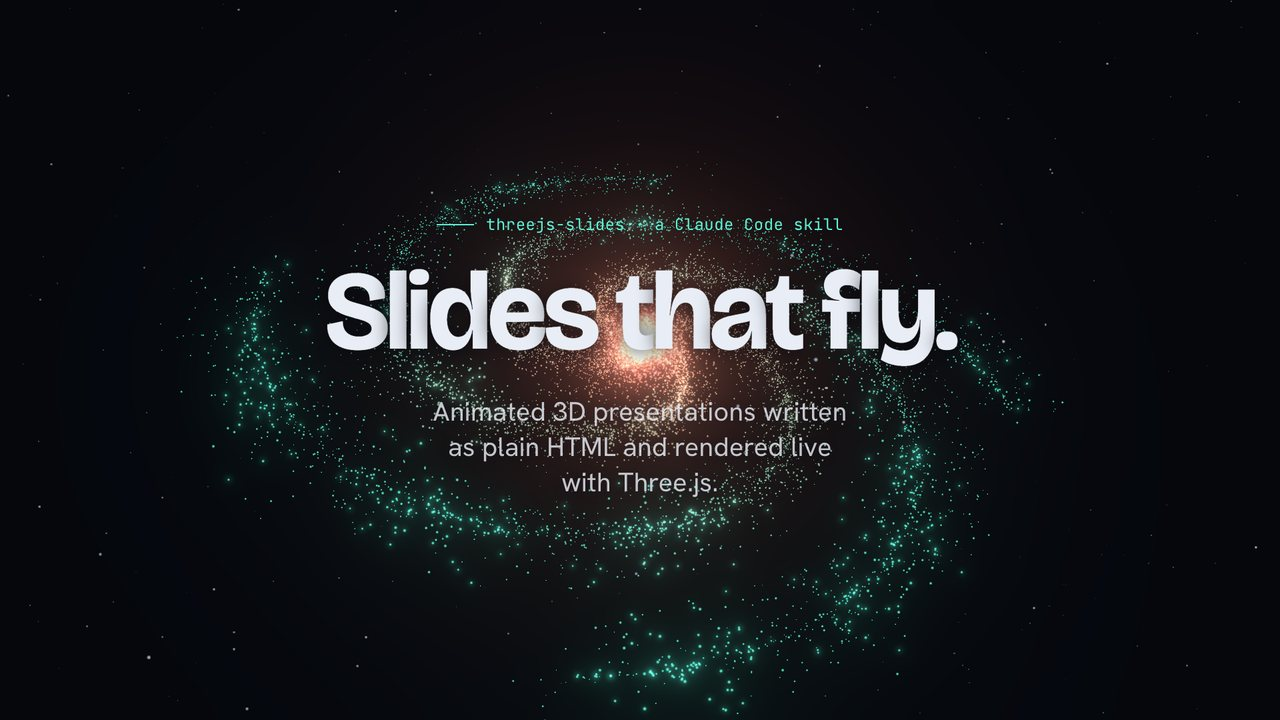
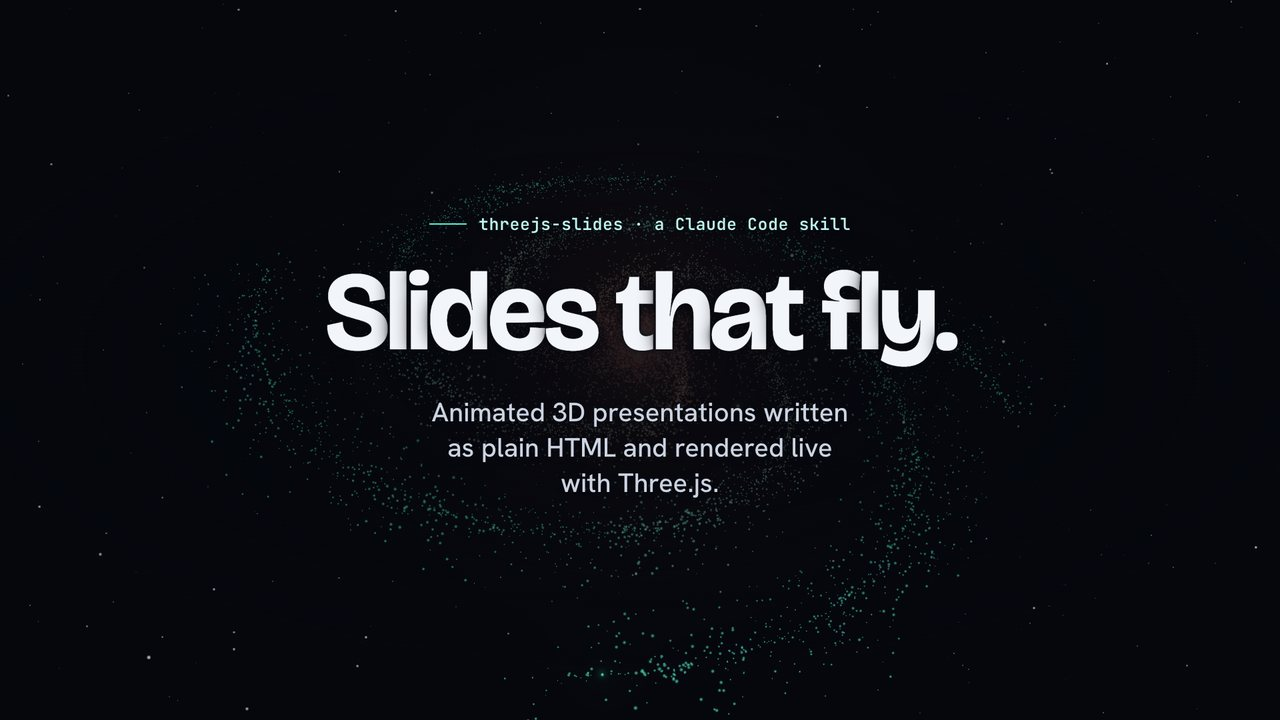
Make slide text readable over 3D scenes
No text colour contrasts with both the dark background and bright
particles (white on the aqua galaxy is 1.2:1), so text now always gets
a dark patch behind it:
- glyph halo + per-layout gradient scrim (--scrim, .no-scrim)
- 3D dimmed when it sits behind text: 0.42 on title/center/statement/
  section/cards, 0.7 on top/bottom/stats, full on split (data-dim)
- solid text roles: --fg, new --text-2, brighter --muted (>= 6.8:1);
  kicker is a pale accent tint instead of pure accent

Changed region(s): [[0.25, 0.2444, 0.7812, 1.0], [0.1562, 0.3667, 0.3125, 0.6417], [0.7812, 0.55, 0.8125, 0.5806]]

diff --git a/examples/demo/lib/threejs-slides.css b/examples/demo/lib/threejs-slides.css
@@ -9,7 +9,7 @@
 
 :root,
 [data-theme="nebula"] {
-  --bg: #05070d; --fg: #e9edf5; --muted: #8b95a9;
+  --bg: #05070d; --fg: #f2f5fa; --text-2: #ccd4e2; --muted: #aab3c5;
   --accent: #5cf2d6; --accent-2: #ff7a59; --accent-3: #7aa2ff;
   --panel: rgba(14, 20, 34, 0.55); --line: rgba(233, 237, 245, 0.14);
   --font-display: "Bricolage Grotesque", "Avenir Next", sans-serif;
@@ -18,7 +18,7 @@
   --display-weight: 700; --display-tracking: -0.035em;
 }
 [data-theme="ember"] {
-  --bg: #0f0a08; --fg: #f7ede3; --muted: #a8958a;
+  --bg: #0f0a08; --fg: #fbf3ea; --text-2: #eadccd; --muted: #c4b2a5;
   --accent: #ff8a3d; --accent-2: #ffd166; --accent-3: #e6394a;
   --panel: rgba(36, 20, 14, 0.55); --line: rgba(247, 237, 227, 0.14);
   --font-display: "Fraunces", Georgia, serif;
@@ -27,7 +27,7 @@
   --display-weight: 600; --display-tracking: -0.025em;
 }
 [data-theme="aurora"] {
-  --bg: #03110e; --fg: #e4fff5; --muted: #84a99c;
+  --bg: #03110e; --fg: #effff8; --text-2: #c3ebdc; --muted: #a3c9bb;
   --accent: #3dffa8; --accent-2: #2bd9ff; --accent-3: #f7e86b;
   --panel: rgba(8, 34, 28, 0.55); --line: rgba(228, 255, 245, 0.14);
   --font-display: "Familjen Grotesk", "Avenir Next", sans-serif;
@@ -36,7 +36,7 @@
   --display-weight: 700; --display-tracking: -0.03em;
 }
 [data-theme="paper"] {
-  --bg: #f3eee4; --fg: #1c1a16; --muted: #6f685c;
+  --bg: #f3eee4; --fg: #15130f; --text-2: #34302a; --muted: #57514a;
   --accent: #2046d8; --accent-2: #e0442b; --accent-3: #0f8a6a;
   --panel: rgba(255, 252, 246, 0.72); --line: rgba(28, 26, 22, 0.16);
   --font-display: "Newsreader", Georgia, serif;
@@ -45,7 +45,7 @@
   --display-weight: 500; --display-tracking: -0.02em;
 }
 [data-theme="mono"] {
-  --bg: #0a0a0a; --fg: #f4f4f1; --muted: #8d8d88;
+  --bg: #0a0a0a; --fg: #f7f7f4; --text-2: #d6d6d2; --muted: #aeaea9;
   --accent: #f4f4f1; --accent-2: #ff4b33; --accent-3: #9a9a95;
   --panel: rgba(24, 24, 24, 0.6); --line: rgba(244, 244, 241, 0.16);
   --font-display: "Archivo", "Helvetica Neue", sans-serif;
@@ -84,11 +84,11 @@ html:not(.ts-ready) .deck > section { transition: none; }
 .slide h1 { font-size: 148px; }
 .slide h2 { font-size: 96px; }
 .slide h3 { font-size: 46px; line-height: 1.08; letter-spacing: -0.015em; }
-.slide p, .slide li { font-size: 32px; line-height: 1.42; margin: 0; text-wrap: pretty; }
-.slide .lede { font-size: 40px; line-height: 1.32; color: color-mix(in srgb, var(--fg) 82%, transparent); max-width: 30ch; }
+.slide p, .slide li { font-size: 32px; line-height: 1.42; margin: 0; text-wrap: pretty; font-weight: 450; }
+.slide .lede { font-size: 40px; line-height: 1.32; color: var(--text-2); font-weight: 500; max-width: 30ch; }
 .slide .small { font-size: 24px; color: var(--muted); }
-.slide .kicker { font-family: var(--font-mono); font-size: 24px; color: var(--accent); letter-spacing: 0.02em; display: inline-flex; align-items: center; gap: 18px; margin-bottom: 34px; }
-.slide .kicker::before { content: ""; width: 56px; height: 2px; background: currentColor; }
+.slide .kicker { font-family: var(--font-mono); font-size: 25px; font-weight: 600; color: color-mix(in srgb, var(--accent) 35%, var(--fg)); letter-spacing: 0.02em; display: inline-flex; align-items: center; gap: 18px; margin-bottom: 34px; }
+.slide .kicker::before { content: ""; width: 56px; height: 2px; background: var(--accent); }
 .slide .accent { color: var(--accent); }
 .slide .muted { color: var(--muted); }
 .slide strong { font-weight: 700; color: var(--fg); }
@@ -115,7 +115,24 @@ html:not(.ts-ready) .deck > section { transition: none; }
 .layout-split-reverse > * { width: 820px; }
 .layout-split .lede, .layout-split-reverse .lede { margin-top: 34px; }
 .layout-split pre.code, .layout-split-reverse pre.code { margin-top: 44px; max-width: 820px; font-size: 24px; }
-body.ts-body .slide { text-shadow: 0 2px 28px color-mix(in srgb, var(--bg) 70%, transparent); }
+/* === LEGIBILITY ===========================================================
+   No text colour can contrast with both a dark background and bright particles,
+   so every slide guarantees a dark (or light, on paper) patch behind its text:
+   1. a halo hugging each glyph, 2. a soft gradient scrim behind the text area.
+   Tune with --scrim on a slide (e.g. style="--scrim: 50%") or remove with .no-scrim. */
+.slide { --halo: color-mix(in srgb, var(--bg) 92%, transparent); --scrim: 78%; isolation: isolate; }
+body.ts-body .slide { text-shadow: 0 0 2px var(--halo), 0 0 8px var(--halo), 0 2px 26px var(--halo); }
+.slide pre.code, .slide .card, .slide .chip { text-shadow: none; }
+.slide::before { content: ""; position: absolute; inset: 0; z-index: -1; pointer-events: none;
+  --s: color-mix(in srgb, var(--bg) var(--scrim), transparent);
+  background: radial-gradient(ellipse 58% 46% at 50% 50%, var(--s) 0%, transparent 100%); }
+.layout-split::before { background: linear-gradient(90deg, var(--s) 0%, var(--s) 30%, transparent 58%); }
+.layout-split-reverse::before { background: linear-gradient(270deg, var(--s) 0%, var(--s) 30%, transparent 58%); }
+.layout-bottom::before { background: linear-gradient(0deg, var(--s) 0%, var(--s) 18%, transparent 48%); }
+.layout-top::before, .layout-stats::before, .layout-cards::before { background: linear-gradient(180deg, var(--s) 0%, var(--s) 28%, transparent 78%); }
+.layout-statement::before { background: radial-gradient(ellipse 62% 55% at 34% 50%, var(--s) 0%, transparent 100%); }
+.slide.no-scrim::before { display: none; }
+.layout-title, .layout-center, .layout-statement, .layout-section { --scrim: 86%; }
 
 .layout-bottom { display: flex; flex-direction: column; justify-content: flex-end; }
 .layout-bottom h2 { font-size: 84px; }
@@ -132,14 +149,14 @@ body.ts-body .slide { text-shadow: 0 2px 28px color-mix(in srgb, var(--bg) 70%, 
 .layout-stats { display: flex; flex-direction: column; justify-content: center; }
 .stats { display: grid; grid-template-columns: repeat(auto-fit, minmax(0, 1fr)); gap: 56px; margin-top: 80px; }
 .stat .value { font-family: var(--font-display); font-weight: var(--display-weight); letter-spacing: var(--display-tracking); font-size: 136px; line-height: 1; color: var(--fg); font-variant-numeric: tabular-nums; }
-.stat .label { margin-top: 18px; font-size: 28px; color: var(--muted); max-width: 16ch; }
+.stat .label { margin-top: 18px; font-size: 28px; color: var(--text-2); font-weight: 500; max-width: 16ch; }
 .stat { border-top: 2px solid var(--line); padding-top: 34px; }
 
 .layout-cards { display: flex; flex-direction: column; justify-content: center; }
 .cards { display: grid; grid-template-columns: repeat(auto-fit, minmax(0, 1fr)); gap: 36px; margin-top: 70px; }
 .card { background: var(--panel); border: 1px solid var(--line); border-radius: 26px; padding: 44px 42px; backdrop-filter: blur(16px); -webkit-backdrop-filter: blur(16px); }
 .card h3 { font-size: 40px; margin-bottom: 18px; }
-.card p { font-size: 27px; color: color-mix(in srgb, var(--fg) 78%, transparent); }
+.card p { font-size: 27px; color: var(--text-2); }
 .card .icon { font-family: var(--font-mono); font-size: 24px; color: var(--accent); margin-bottom: 30px; display: block; }
 
 .chips { display: flex; flex-wrap: wrap; gap: 16px; margin-top: 40px; }

diff --git a/skills/threejs-slides/assets/runtime/threejs-slides.css b/skills/threejs-slides/assets/runtime/threejs-slides.css
@@ -9,7 +9,7 @@
 
 :root,
 [data-theme="nebula"] {
-  --bg: #05070d; --fg: #e9edf5; --muted: #8b95a9;
+  --bg: #05070d; --fg: #f2f5fa; --text-2: #ccd4e2; --muted: #aab3c5;
   --accent: #5cf2d6; --accent-2: #ff7a59; --accent-3: #7aa2ff;
   --panel: rgba(14, 20, 34, 0.55); --line: rgba(233, 237, 245, 0.14);
   --font-display: "Bricolage Grotesque", "Avenir Next", sans-serif;
@@ -18,7 +18,7 @@
   --display-weight: 700; --display-tracking: -0.035em;
 }
 [data-theme="ember"] {
-  --bg: #0f0a08; --fg: #f7ede3; --muted: #a8958a;
+  --bg: #0f0a08; --fg: #fbf3ea; --text-2: #eadccd; --muted: #c4b2a5;
   --accent: #ff8a3d; --accent-2: #ffd166; --accent-3: #e6394a;
   --panel: rgba(36, 20, 14, 0.55); --line: rgba(247, 237, 227, 0.14);
   --font-display: "Fraunces", Georgia, serif;
@@ -27,7 +27,7 @@
   --display-weight: 600; --display-tracking: -0.025em;
 }
 [data-theme="aurora"] {
-  --bg: #03110e; --fg: #e4fff5; --muted: #84a99c;
+  --bg: #03110e; --fg: #effff8; --text-2: #c3ebdc; --muted: #a3c9bb;
   --accent: #3dffa8; --accent-2: #2bd9ff; --accent-3: #f7e86b;
   --panel: rgba(8, 34, 28, 0.55); --line: rgba(228, 255, 245, 0.14);
   --font-display: "Familjen Grotesk", "Avenir Next", sans-serif;
@@ -36,7 +36,7 @@
   --display-weight: 700; --display-tracking: -0.03em;
 }
 [data-theme="paper"] {
-  --bg: #f3eee4; --fg: #1c1a16; --muted: #6f685c;
+  --bg: #f3eee4; --fg: #15130f; --text-2: #34302a; --muted: #57514a;
   --accent: #2046d8; --accent-2: #e0442b; --accent-3: #0f8a6a;
   --panel: rgba(255, 252, 246, 0.72); --line: rgba(28, 26, 22, 0.16);
   --font-display: "Newsreader", Georgia, serif;
@@ -45,7 +45,7 @@
   --display-weight: 500; --display-tracking: -0.02em;
 }
 [data-theme="mono"] {
-  --bg: #0a0a0a; --fg: #f4f4f1; --muted: #8d8d88;
+  --bg: #0a0a0a; --fg: #f7f7f4; --text-2: #d6d6d2; --muted: #aeaea9;
   --accent: #f4f4f1; --accent-2: #ff4b33; --accent-3: #9a9a95;
   --panel: rgba(24, 24, 24, 0.6); --line: rgba(244, 244, 241, 0.16);
   --font-display: "Archivo", "Helvetica Neue", sans-serif;
@@ -84,11 +84,11 @@ html:not(.ts-ready) .deck > section { transition: none; }
 .slide h1 { font-size: 148px; }
 .slide h2 { font-size: 96px; }
 .slide h3 { font-size: 46px; line-height: 1.08; letter-spacing: -0.015em; }
-.slide p, .slide li { font-size: 32px; line-height: 1.42; margin: 0; text-wrap: pretty; }
-.slide .lede { font-size: 40px; line-height: 1.32; color: color-mix(in srgb, var(--fg) 82%, transparent); max-width: 30ch; }
+.slide p, .slide li { font-size: 32px; line-height: 1.42; margin: 0; text-wrap: pretty; font-weight: 450; }
+.slide .lede { font-size: 40px; line-height: 1.32; color: var(--text-2); font-weight: 500; max-width: 30ch; }
 .slide .small { font-size: 24px; color: var(--muted); }
-.slide .kicker { font-family: var(--font-mono); font-size: 24px; color: var(--accent); letter-spacing: 0.02em; display: inline-flex; align-items: center; gap: 18px; margin-bottom: 34px; }
-.slide .kicker::before { content: ""; width: 56px; height: 2px; background: currentColor; }
+.slide .kicker { font-family: var(--font-mono); font-size: 25px; font-weight: 600; color: color-mix(in srgb, var(--accent) 35%, var(--fg)); letter-spacing: 0.02em; display: inline-flex; align-items: center; gap: 18px; margin-bottom: 34px; }
+.slide .kicker::before { content: ""; width: 56px; height: 2px; background: var(--accent); }
 .slide .accent { color: var(--accent); }
 .slide .muted { color: var(--muted); }
 .slide strong { font-weight: 700; color: var(--fg); }
@@ -115,7 +115,24 @@ html:not(.ts-ready) .deck > section { transition: none; }
 .layout-split-reverse > * { width: 820px; }
 .layout-split .lede, .layout-split-reverse .lede { margin-top: 34px; }
 .layout-split pre.code, .layout-split-reverse pre.code { margin-top: 44px; max-width: 820px; font-size: 24px; }
-body.ts-body .slide { text-shadow: 0 2px 28px color-mix(in srgb, var(--bg) 70%, transparent); }
+/* === LEGIBILITY ===========================================================
+   No text colour can contrast with both a dark background and bright particles,
+   so every slide guarantees a dark (or light, on paper) patch behind its text:
+   1. a halo hugging each glyph, 2. a soft gradient scrim behind the text area.
+   Tune with --scrim on a slide (e.g. style="--scrim: 50%") or remove with .no-scrim. */
+.slide { --halo: color-mix(in srgb, var(--bg) 92%, transparent); --scrim: 78%; isolation: isolate; }
+body.ts-body .slide { text-shadow: 0 0 2px var(--halo), 0 0 8px var(--halo), 0 2px 26px var(--halo); }
+.slide pre.code, .slide .card, .slide .chip { text-shadow: none; }
+.slide::before { content: ""; position: absolute; inset: 0; z-index: -1; pointer-events: none;
+  --s: color-mix(in srgb, var(--bg) var(--scrim), transparent);
+  background: radial-gradient(ellipse 58% 46% at 50% 50%, var(--s) 0%, transparent 100%); }
+.layout-split::before { background: linear-gradient(90deg, var(--s) 0%, var(--s) 30%, transparent 58%); }
+.layout-split-reverse::before { background: linear-gradient(270deg, var(--s) 0%, var(--s) 30%, transparent 58%); }
+.layout-bottom::before { background: linear-gradient(0deg, var(--s) 0%, var(--s) 18%, transparent 48%); }
+.layout-top::before, .layout-stats::before, .layout-cards::before { background: linear-gradient(180deg, var(--s) 0%, var(--s) 28%, transparent 78%); }
+.layout-statement::before { background: radial-gradient(ellipse 62% 55% at 34% 50%, var(--s) 0%, transparent 100%); }
+.slide.no-scrim::before { display: none; }
+.layout-title, .layout-center, .layout-statement, .layout-section { --scrim: 86%; }
 
 .layout-bottom { display: flex; flex-direction: column; justify-content: flex-end; }
 .layout-bottom h2 { font-size: 84px; }
@@ -132,14 +149,14 @@ body.ts-body .slide { text-shadow: 0 2px 28px color-mix(in srgb, var(--bg) 70%, 
 .layout-stats { display: flex; flex-direction: column; justify-content: center; }
 .stats { display: grid; grid-template-columns: repeat(auto-fit, minmax(0, 1fr)); gap: 56px; margin-top: 80px; }
 .stat .value { font-family: var(--font-display); font-weight: var(--display-weight); letter-spacing: var(--display-tracking); font-size: 136px; line-height: 1; color: var(--fg); font-variant-numeric: tabular-nums; }
-.stat .label { margin-top: 18px; font-size: 28px; color: var(--muted); max-width: 16ch; }
+.stat .label { margin-top: 18px; font-size: 28px; color: var(--text-2); font-weight: 500; max-width: 16ch; }
 .stat { border-top: 2px solid var(--line); padding-top: 34px; }
 
 .layout-cards { display: flex; flex-direction: column; justify-content: center; }
 .cards { display: grid; grid-template-columns: repeat(auto-fit, minmax(0, 1fr)); gap: 36px; margin-top: 70px; }
 .card { background: var(--panel); border: 1px solid var(--line); border-radius: 26px; padding: 44px 42px; backdrop-filter: blur(16px); -webkit-backdrop-filter: blur(16px); }
 .card h3 { font-size: 40px; margin-bottom: 18px; }
-.card p { font-size: 27px; color: color-mix(in srgb, var(--fg) 78%, transparent); }
+.card p { font-size: 27px; color: var(--text-2); }
 .card .icon { font-family: var(--font-mono); font-size: 24px; color: var(--accent); margin-bottom: 30px; display: block; }
 
 .chips { display: flex; flex-wrap: wrap; gap: 16px; margin-top: 40px; }

diff --git a/examples/demo/lib/threejs-slides.js b/examples/demo/lib/threejs-slides.js
@@ -64,6 +64,15 @@ function layoutOffset(el) {
   return [0, 0, 0];
 }
 
+/** How bright the 3D is on each layout: full when it sits beside the text, dimmed when it sits behind it. */
+function layoutDim(el) {
+  const c = el.classList;
+  if (c.contains('layout-split') || c.contains('layout-split-reverse')) return 1;
+  if (c.contains('layout-bottom') || c.contains('layout-top') || c.contains('layout-stats')) return 0.7;
+  if (['layout-title', 'layout-center', 'layout-statement', 'layout-section', 'layout-cards'].some((k) => c.contains(k))) return 0.42;
+  return 1;
+}
+
 function readPalette(root) {
   const cs = getComputedStyle(root);
   const v = (name, fb) => cs.getPropertyValue(name).trim() || fb;
@@ -239,6 +248,7 @@ async function createDeck(options = {}) {
       anchor: journeyFn(index),
       offset: parseVec(el.dataset.offset) || layoutOffset(el),
       scale: Number(el.dataset.scale || 1),
+      dim: el.dataset.dim != null ? Number(el.dataset.dim) : layoutDim(el),
       notes: notesEl ? notesEl.innerHTML : (el.dataset.notes || ''),
       vis: 0, visFrom: 0, visTo: 0, group: null, inst: null, mats: [],
     };
@@ -496,11 +506,12 @@ async function createDeck(options = {}) {
       const visible = s.vis > 0.002;
       s.group.visible = visible;
       if (!visible) continue;
+      const f = s.vis * s.dim;
       for (const m of s.mats) {
-        if (m.kind === 'uniform') m.m.uniforms.uFade.value = s.vis;
-        else m.m.opacity = m.base * s.vis;
+        if (m.kind === 'uniform') m.m.uniforms.uFade.value = f;
+        else m.m.opacity = m.base * f;
       }
-      s.inst.update?.(t, dt, { fade: s.vis, active: s.index === current, motion });
+      s.inst.update?.(t, dt, { fade: f, active: s.index === current, motion });
     }
     pointerSmooth.lerp(pointer, Math.min(1, dt * 3));
     camera.position.copy(camPos).add(new THREE.Vector3(pointerSmooth.x * 0.5, -pointerSmooth.y * 0.35, 0));

diff --git a/skills/threejs-slides/assets/runtime/threejs-slides.js b/skills/threejs-slides/assets/runtime/threejs-slides.js
@@ -64,6 +64,15 @@ function layoutOffset(el) {
   return [0, 0, 0];
 }
 
+/** How bright the 3D is on each layout: full when it sits beside the text, dimmed when it sits behind it. */
+function layoutDim(el) {
+  const c = el.classList;
+  if (c.contains('layout-split') || c.contains('layout-split-reverse')) return 1;
+  if (c.contains('layout-bottom') || c.contains('layout-top') || c.contains('layout-stats')) return 0.7;
+  if (['layout-title', 'layout-center', 'layout-statement', 'layout-section', 'layout-cards'].some((k) => c.contains(k))) return 0.42;
+  return 1;
+}
+
 function readPalette(root) {
   const cs = getComputedStyle(root);
   const v = (name, fb) => cs.getPropertyValue(name).trim() || fb;
@@ -239,6 +248,7 @@ async function createDeck(options = {}) {
       anchor: journeyFn(index),
       offset: parseVec(el.dataset.offset) || layoutOffset(el),
       scale: Number(el.dataset.scale || 1),
+      dim: el.dataset.dim != null ? Number(el.dataset.dim) : layoutDim(el),
       notes: notesEl ? notesEl.innerHTML : (el.dataset.notes || ''),
       vis: 0, visFrom: 0, visTo: 0, group: null, inst: null, mats: [],
     };
@@ -496,11 +506,12 @@ async function createDeck(options = {}) {
       const visible = s.vis > 0.002;
       s.group.visible = visible;
       if (!visible) continue;
+      const f = s.vis * s.dim;
       for (const m of s.mats) {
-        if (m.kind === 'uniform') m.m.uniforms.uFade.value = s.vis;
-        else m.m.opacity = m.base * s.vis;
+        if (m.kind === 'uniform') m.m.uniforms.uFade.value = f;
+        else m.m.opacity = m.base * f;
       }
-      s.inst.update?.(t, dt, { fade: s.vis, active: s.index === current, motion });
+      s.inst.update?.(t, dt, { fade: f, active: s.index === current, motion });
     }
     pointerSmooth.lerp(pointer, Math.min(1, dt * 3));
     camera.position.copy(camPos).add(new THREE.Vector3(pointerSmooth.x * 0.5, -pointerSmooth.y * 0.35, 0));

diff --git a/skills/threejs-slides/references/authoring.md b/skills/threejs-slides/references/authoring.md
@@ -59,7 +59,7 @@ Classes can be combined, e.g. `class="layout-stats layout-top"`.
 
 Text elements: `.kicker` (mono eyebrow with a rule), `h1` 148px, `h2` 96px, `h3` 46px, `.lede` 40px, `p`/`li` 32px, `.small` 24px, `ul.points`, `pre.code` (use `<span class="c|k|s">` for comment/keyword/string colours), `.chips > .chip`, `.accent`, `.muted`.
 
-Legibility helpers: `scrim-left` / `scrim-right` on a section add a soft gradient behind the text side.
+Legibility (built in): no text colour can contrast with both a dark background and bright particles, so every slide gets (1) a background-coloured halo around each glyph and (2) a soft gradient scrim behind its text area, shaped per layout. When the 3D sits *behind* the text (title, center, statement, section, cards), the engine also dims it to 42%. Controls: `style="--scrim: 60%"` on a section for a lighter scrim, `class="no-scrim"` to remove it, `data-dim="1"` for full-strength 3D. Text colours: `--fg` for headlines and body, `--text-2` for secondary text (lede, card text, stat labels), `--muted` for captions only. Don't use `--accent` for running text over 3D; the kicker is a pale accent tint for that reason. `scrim-left` / `scrim-right` add an extra side gradient.
 
 ### Density limits (per slide)
 - headline: 9 words or fewer
@@ -127,14 +127,14 @@ Override the variables in the deck's `<style>`. The 3D scenes read them at start
 
 ```css
 :root[data-theme="brand"] {
-  --bg: #0b1020; --fg: #f5f7ff; --muted: #8e97b5;
+  --bg: #0b1020; --fg: #f5f7ff; --text-2: #cfd5ea; --muted: #a9b1cc;
   --accent: #ffcc00; --accent-2: #ff5f5f; --accent-3: #48c9ff;
   --panel: rgba(20, 26, 48, .55); --line: rgba(245, 247, 255, .14);
   --font-display: "Your Display", sans-serif; --font-body: "Your Body", sans-serif; --font-mono: "JetBrains Mono", monospace;
   --display-weight: 700; --display-tracking: -0.03em;
 }
 ```
-Rules: `--bg` sets the clear colour and fog. Backgrounds with lightness above 55% switch the scenes to light mode (normal blending, no bloom). `--accent` is the dominant 3D colour, `--accent-2` the highlight, `--accent-3` the support colour. Keep contrast between `--fg` and `--bg` at 7:1 or more.
+Rules: `--bg` sets the clear colour and fog. Backgrounds with lightness above 55% switch the scenes to light mode (normal blending, no bloom). `--accent` is the dominant 3D colour, `--accent-2` the highlight, `--accent-3` the support colour. Keep `--fg` and `--text-2` at 7:1 or more against `--bg`, and `--muted` at 4.5:1 or more.
 
 ## Images and media
 

diff --git a/DESIGN.md b/DESIGN.md
@@ -21,8 +21,9 @@ The source of truth for how decks made with this skill look and move. Update it 
 | Token | nebula | ember | aurora | paper | mono |
 |---|---|---|---|---|---|
 | `--bg` | #05070d | #0f0a08 | #03110e | #f3eee4 | #0a0a0a |
-| `--fg` | #e9edf5 | #f7ede3 | #e4fff5 | #1c1a16 | #f4f4f1 |
-| `--muted` | #8b95a9 | #a8958a | #84a99c | #6f685c | #8d8d88 |
+| `--fg` | #f2f5fa | #fbf3ea | #effff8 | #15130f | #f7f7f4 |
+| `--text-2` | #ccd4e2 | #eadccd | #c3ebdc | #34302a | #d6d6d2 |
+| `--muted` | #aab3c5 | #c4b2a5 | #a3c9bb | #57514a | #aeaea9 |
 | `--accent` | #5cf2d6 | #ff8a3d | #3dffa8 | #2046d8 | #f4f4f1 |
 | `--accent-2` | #ff7a59 | #ffd166 | #2bd9ff | #e0442b | #ff4b33 |
 | `--accent-3` | #7aa2ff | #e6394a | #f7e86b | #0f8a6a | #9a9a95 |
@@ -68,3 +69,12 @@ Light mode (background lightness above 55%): normal blending instead of additive
 ## Layouts
 
 title · center · split (3D x+3.3) · split-reverse (3D x−3.3) · bottom (3D y+0.5) · top (3D y−1.1) · statement · section · stats · cards. The offsets live in `layoutOffset()` in the engine.
+
+## Legibility
+
+No text colour can contrast with both a dark background and bright particles (white on the aqua galaxy measures 1.2:1). So text always gets a dark (or light, on paper) patch behind it:
+
+- **Text roles:** `--fg` headlines/body (16–18.6:1 on bg), `--text-2` secondary (11–15:1), `--muted` captions (6.8–10.7:1). Kicker = 35% accent + 65% fg; the accent stays on its rule line. No transparency in text colours.
+- **Halo:** `text-shadow: 0 0 2px, 0 0 8px, 0 2px 26px` in bg at 92%.
+- **Scrim:** `.slide::before` gradient in bg at `--scrim` (78%; 86% on title/center/statement/section), shaped per layout.
+- **3D dim by layout:** split 1.0 · top/bottom/stats 0.7 · title/center/statement/section/cards 0.42. Override with `data-dim`.

diff --git a/skills/threejs-slides/SKILL.md b/skills/threejs-slides/SKILL.md
@@ -24,7 +24,7 @@ my-deck/
 1. **Motion carries meaning.** Every 3D scene and every build step must say something the words alone don't. If a scene is only decoration, use a quieter one (`none`, `network`, `galaxy`) or none at all.
 2. **One idea per slide.** Speaker decks: a headline plus at most 3 short points. If content overflows, split the slide. Never shrink the text.
 3. **Fixed 1920×1080 stage.** The runtime scales the whole stage to fit. Don't add media queries that reflow slides, and size everything in px at 1920×1080.
-4. **Text and 3D never fight.** Use layouts that keep them apart (`layout-split` puts 3D on the right, `layout-split-reverse` on the left, `layout-bottom` puts it above the text). In `layout-center` / `layout-title`, pick a scene that reads as background.
+4. **Text and 3D never fight.** The 3D reads best *beside* the text. Use layouts that keep them apart (`layout-split` puts 3D on the right, `layout-split-reverse` on the left, `layout-bottom` puts it above the text). In `layout-center` / `layout-title`, pick a scene that reads as background. The runtime adds text halos and scrims and dims 3D that sits behind text (`data-dim` overrides). Never set running text in `--accent` over a scene.
 5. **Vary the rhythm.** Never use the same scene on two consecutive slides. Put a `layout-section` + `tunnel` slide between acts. Bookending a deck with the same scene (title and closing) is fine.
 6. **Verify visually.** Don't hand over a deck you haven't screenshotted slide by slide (Phase 5).
 

diff --git a/skills/threejs-slides/references/scenes.md b/skills/threejs-slides/references/scenes.md
@@ -12,6 +12,7 @@ Every scene accepts these slide attributes (handled by the engine, not the scene
 | `data-rotate="x,y,z"` | rotate the object, in degrees | `data-rotate="0,30,0"` |
 | `data-camera="x,y,z"` | camera position relative to the slide anchor (overrides the scene default) | `data-camera="0,2,10"` |
 | `data-look="x,y,z"` | camera look-at point relative to the anchor | `data-look="0,0.5,0"` |
+| `data-dim="0..1"` | 3D brightness on this slide. Default by layout: 1 for split layouts, 0.7 for top/bottom/stats, 0.42 when the 3D sits behind text (title, center, statement, section, cards) | `data-dim="0.6"` |
 | `data-scene-steps="n"` | number of build steps for the scene when there are fewer `data-step` elements | `data-scene-steps="5"` |
 
 Layouts set a default offset: `layout-split` → object at x = +3.3 (right), `layout-split-reverse` → x = −3.3 (left), `layout-bottom` → y = +0.5, `layout-top` → y = −1.1.
